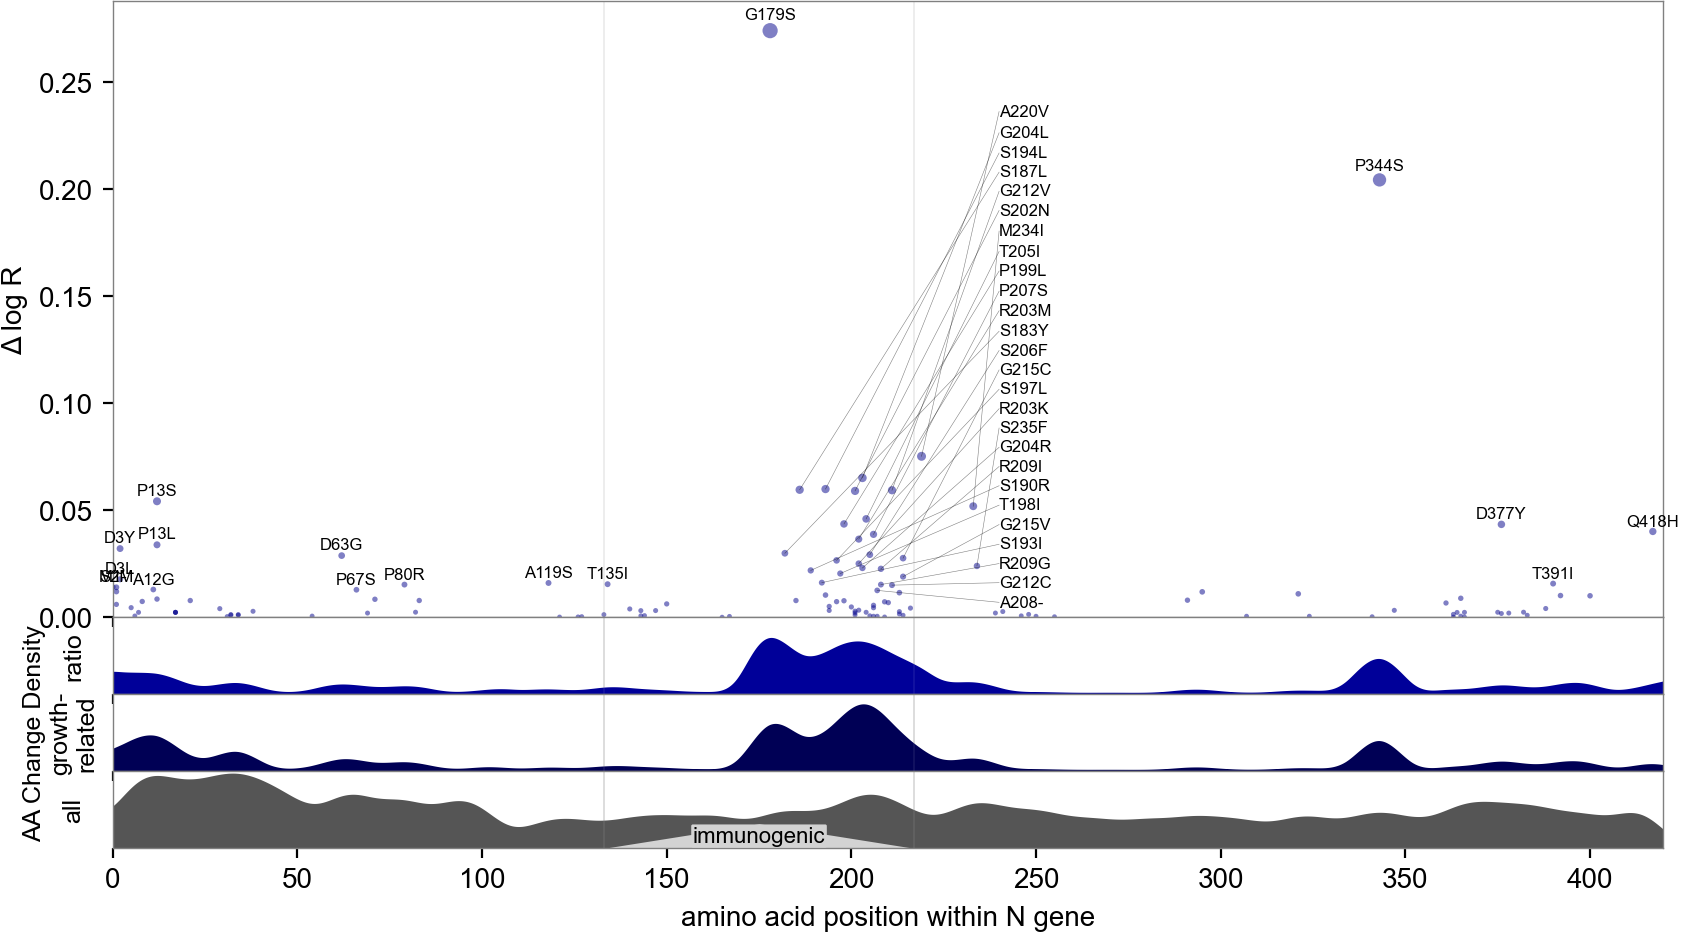
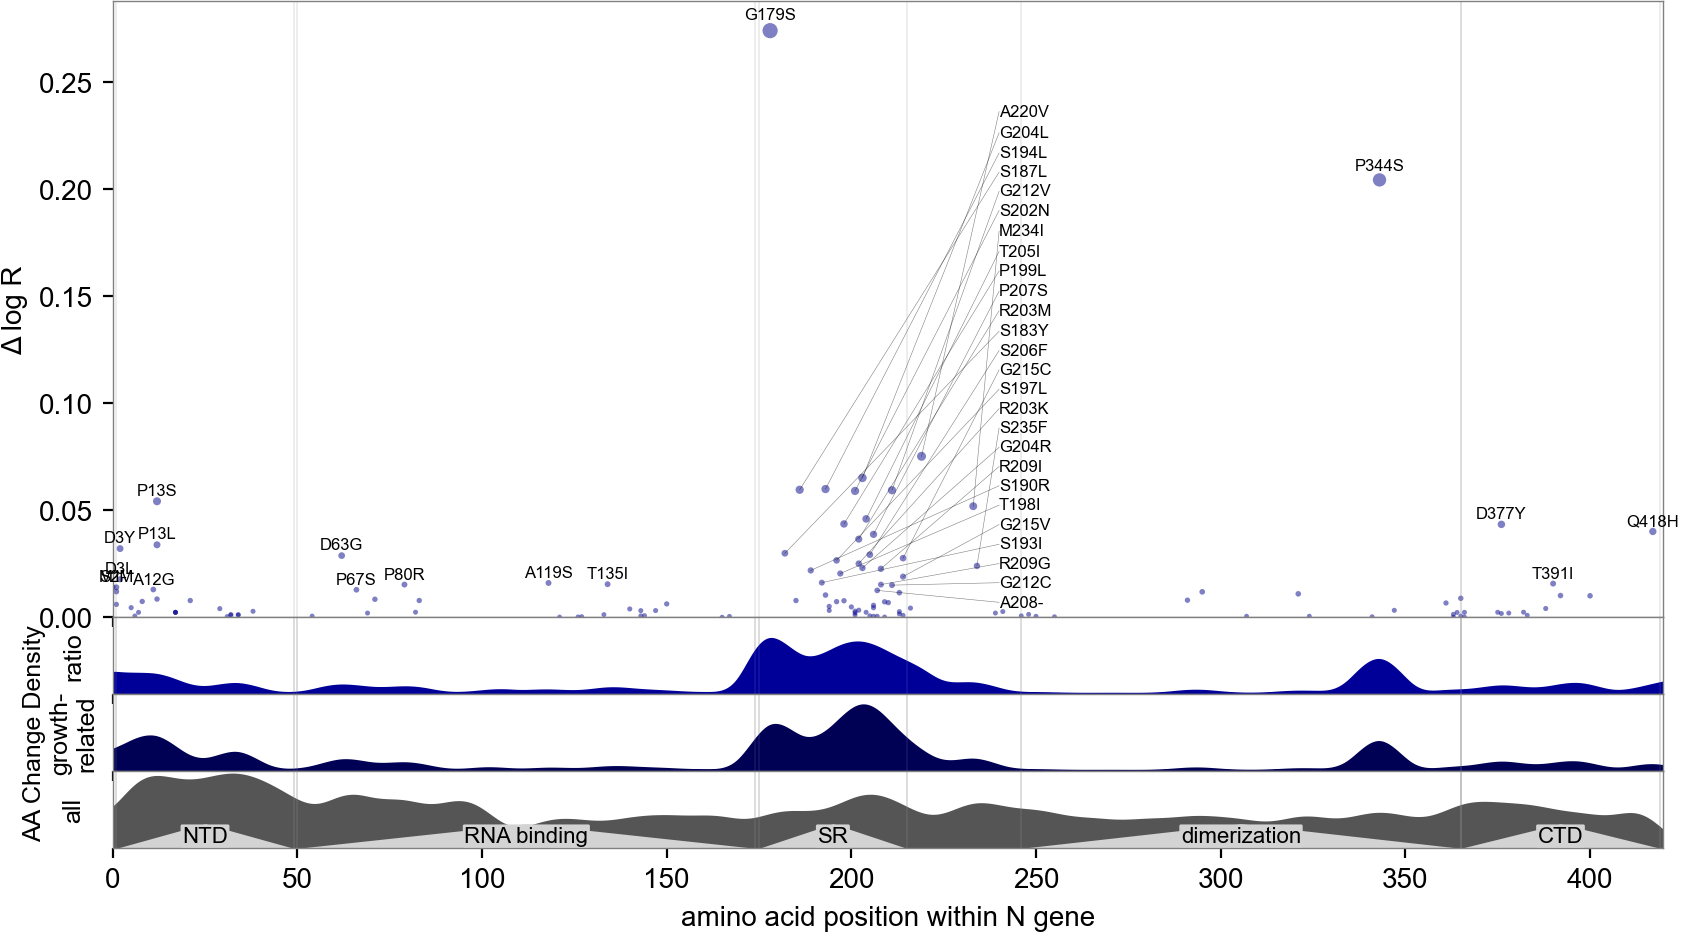
Add structure to N gene manhattan plot

Changed region(s): [[0.6187, 0.8703, 0.9899, 0.9325], [0.1856, 0.8703, 0.5259, 0.9325], [0.0619, 0.8703, 0.1547, 0.9325]]

diff --git a/pyrocov/sarscov2.py b/pyrocov/sarscov2.py
@@ -57,7 +57,15 @@ GENE_STRUCTURE: Dict[str, Dict[str, Tuple[int, int]]] = {
         "TM": (1213, 1237),
         "CT": (1237, 1273),
     },
-    "N": {"immunogenic": (133, 217)},
+    # Source https://www.nature.com/articles/s41467-021-21953-3
+    "N": {
+        "NTD": (1, 49),
+        "RNA binding": (50, 174),
+        "SR": (175, 215),
+        "dimerization": (246, 365),
+        "CTD": (365, 419),
+        # "immunogenic": (133, 217),
+    },
     # Source: https://www.ncbi.nlm.nih.gov/protein/YP_009725295.1
     "ORF1a": {
         "nsp1": (0, 180),  # leader protein
